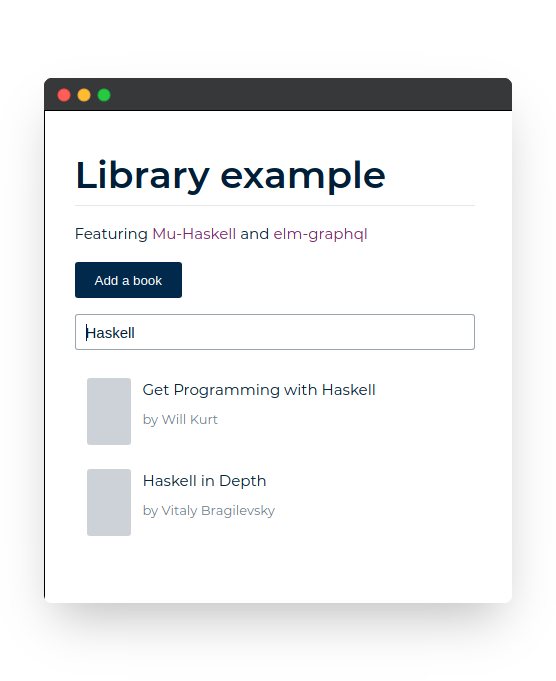
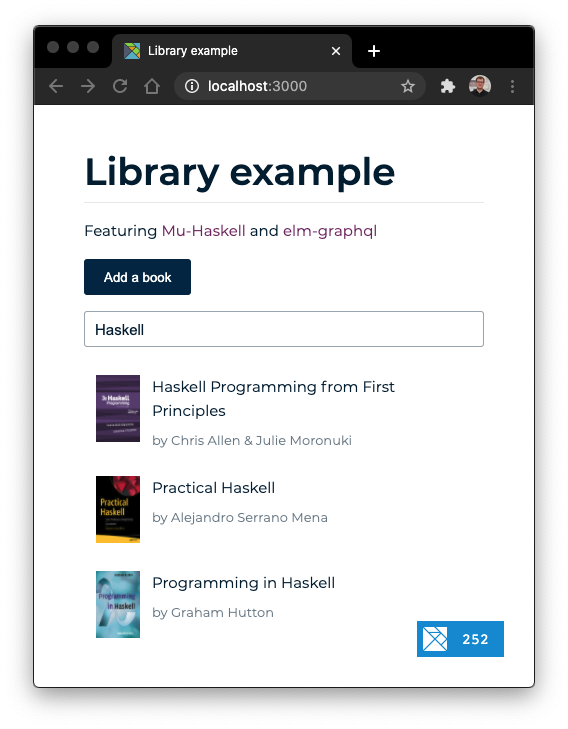
Add book images to graphql library example 📚 📸 (#4)

Changed region(s): [[0.0306, 0.0308, 0.9784, 0.9868], [0.8255, 0.4626, 0.8561, 0.4934]]

diff --git a/src/main.css b/src/main.css
@@ -2,27 +2,19 @@
   height: inherit;
 }
 
-/* Variables */
-
 :root {
   --main-color-100: rgba(0, 30, 56, 1);
   --main-color-60: rgba(0, 30, 56, 0.6);
   --main-color-40: rgba(0, 30, 56, 0.4);
   --main-color-30: rgba(0, 30, 56, 0.3);
-  --main-color-20: rgba(0, 30, 56, 0.2);
   --main-color-10: rgba(0, 30, 56, 0.1);
   --main-color-03: rgba(0, 30, 56, 0.03);
-
   --white-100: rgba(255, 255, 255, 1);
   --white-80: rgba(255, 255, 255, 0.8);
-
   --accent-color-100: rgba(120, 40, 108, 1);
-
   --error-color-100: #f44336;
-
   --contrast-background-color-100: rgba(0, 41, 76, 1);
   --contrast-background-color-80: rgba(0, 41, 76, 0.8);
-
   --quick: 0.3s;
   --slow: 1s;
   --smooth: cubic-bezier(0.28, 0.11, 0.32, 1);
@@ -172,13 +164,14 @@ button:disabled {
 }
 
 .book__cover {
-  width: 44px;
-  height: 67px;
   flex-grow: 0;
   flex-shrink: 0;
-  border-radius: 3px;
-  background-color: var(--main-color-20);
   margin-right: 12px;
+}
+
+.book__cover img {
+  width: 44px;
+  height: 67px;
 }
 
 .book__title {
